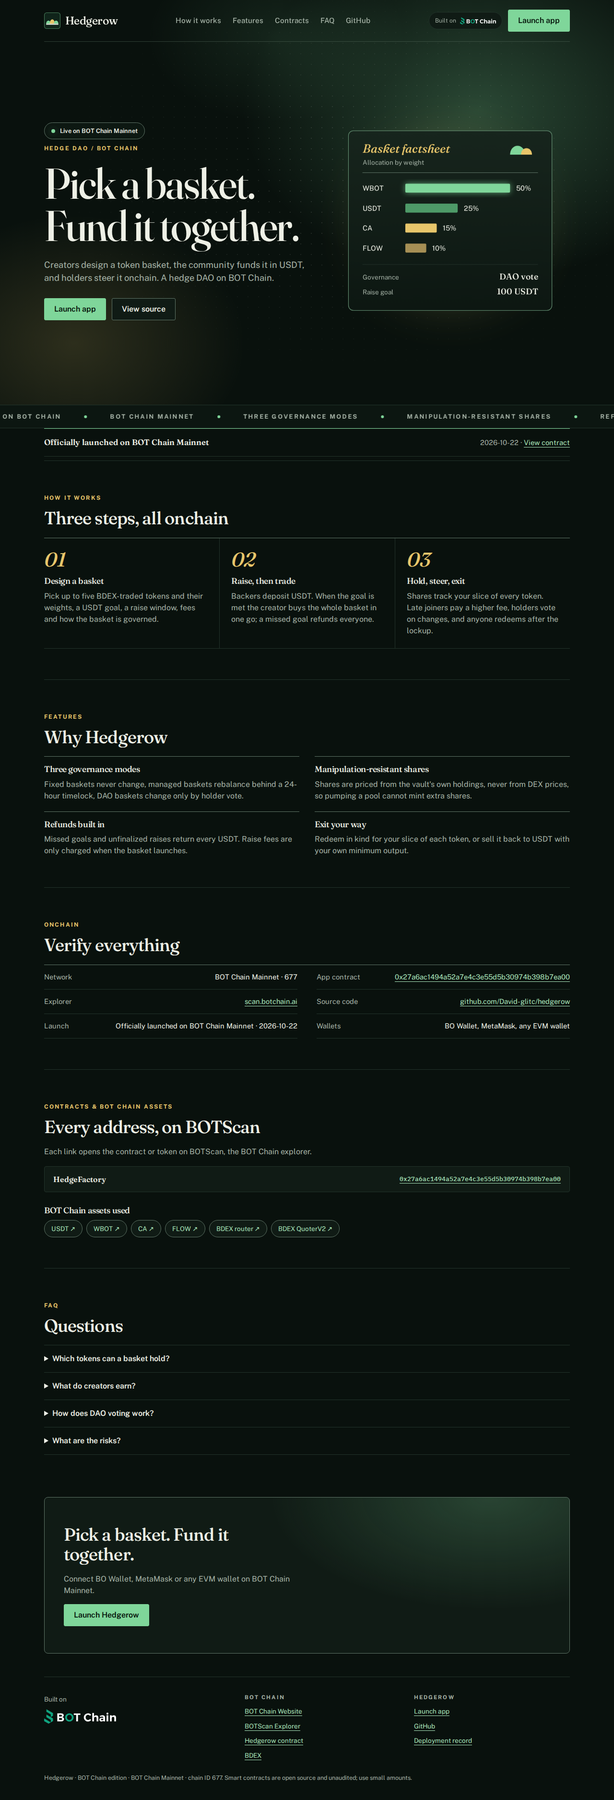
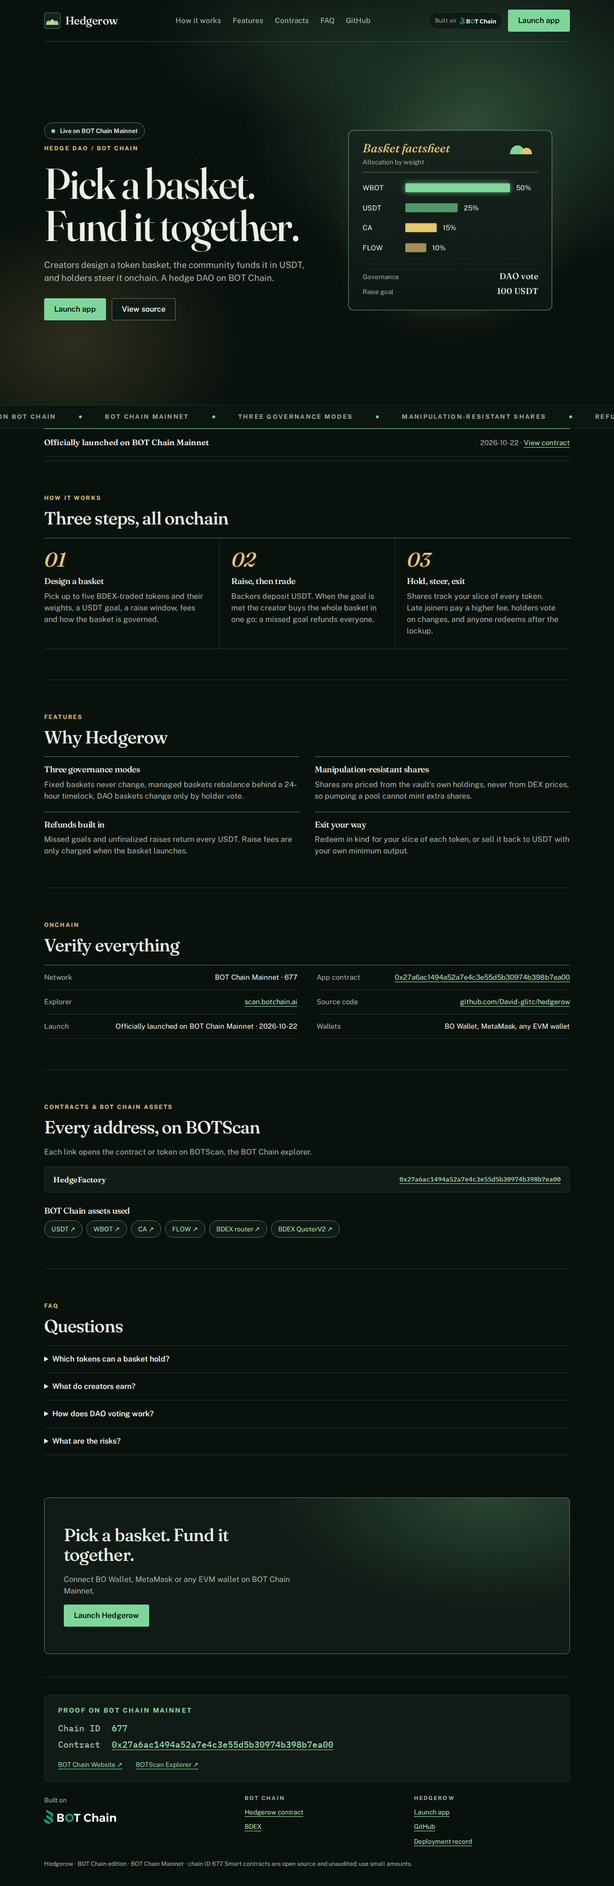
Per-product app layouts, live app-bar figures and Proof on BOT Chain Mainnet footer

diff --git a/web/base.css b/web/base.css
@@ -96,18 +96,42 @@ header{position:relative;z-index:3;display:flex;align-items:center;justify-conte
 .assets a{display:inline-flex;align-items:center;min-height:36px;padding:6px 14px;border:1px solid var(--line-strong);border-radius:var(--radius-pill);background:var(--surface);font-size:.85rem;text-decoration:none;color:var(--link)}
 .assets a:hover{border-color:var(--accent)}
 
-/* App page */
-.app-intro{position:relative;isolation:isolate;padding:52px 0 32px}
-.app-intro:before{content:'';position:absolute;left:50%;width:100vw;transform:translateX(-50%);top:-96px;bottom:-24px;z-index:-1;pointer-events:none;background:var(--hero-bg);opacity:.75;-webkit-mask-image:linear-gradient(#000 55%,transparent);mask-image:linear-gradient(#000 55%,transparent)}
-.app-intro h1{font-size:clamp(2rem,4vw,3rem);margin:12px 0}
-.app-intro p{margin:0}
-.status{margin-bottom:24px;padding:16px 20px;border:var(--border-w) solid var(--line);border-left-width:var(--border-w);border-radius:var(--radius-md);background:var(--surface);color:var(--ink);font-size:.92rem;overflow-wrap:anywhere}
-.status.error{border-color:var(--danger);background:var(--danger-bg)}
-.layout{display:grid;grid-template-columns:minmax(0,360px) minmax(0,1fr);gap:24px;align-items:start}
-.panel{padding:24px;margin-bottom:20px;background:var(--surface);border:var(--border-w) solid var(--line);border-radius:var(--radius-lg);box-shadow:var(--shadow-1)}
+/* App page: an app bar with live figures, then a product-specific workspace (data-layout). */
+.sr-only{position:absolute;width:1px;height:1px;margin:-1px;overflow:hidden;clip:rect(0 0 0 0);white-space:nowrap}
+.app-bar{position:relative;isolation:isolate;display:flex;flex-wrap:wrap;align-items:flex-end;justify-content:space-between;gap:24px 40px;padding:44px 0 28px}
+.app-bar:before{content:'';position:absolute;left:50%;width:100vw;transform:translateX(-50%);top:-96px;bottom:-24px;z-index:-1;pointer-events:none;background:var(--hero-bg);opacity:.75;-webkit-mask-image:linear-gradient(#000 55%,transparent);mask-image:linear-gradient(#000 55%,transparent)}
+.app-title{min-width:0;flex:1 1 380px}
+.app-title h1{font-size:clamp(2.2rem,4.6vw,3.6rem);margin:10px 0;max-width:none}
+.app-title p{margin:0;max-width:56ch}
+.stats{display:flex;flex-wrap:wrap;margin:0;border:var(--border-w) solid var(--line);border-radius:var(--radius-md);background:var(--surface);overflow:hidden}
+.stats>div{padding:12px 20px;min-width:118px}
+.stats>div+div{border-left:1px solid var(--line)}
+.stats dt{font-family:var(--font-label);font-size:.68rem;font-weight:700;letter-spacing:var(--label-tracking);text-transform:uppercase;color:var(--ink-2)}
+.stats dd{margin:4px 0 0;font-family:var(--font-mono);font-size:1.15rem;font-weight:700;font-variant-numeric:tabular-nums;color:var(--ink);white-space:nowrap}
+.skeleton{display:grid;gap:12px}
+.skeleton span,.skeleton-stat{display:block;height:72px;border-radius:var(--radius-md);background:linear-gradient(90deg,var(--surface-2) 25%,var(--surface) 50%,var(--surface-2) 75%);background-size:200% 100%;animation:shimmer 1.4s linear infinite}
+.skeleton-stat{width:118px;height:64px;border-radius:0}
+@keyframes shimmer{to{background-position:-200% 0}}
+.status{display:flex;align-items:center;gap:10px;margin-bottom:24px;padding:10px 16px;border:1px solid var(--line);border-radius:var(--radius-md);background:var(--surface);color:var(--ink-2);font-size:.86rem;overflow-wrap:anywhere}
+.status:before{content:'';flex:none;width:8px;height:8px;border-radius:50%;background:var(--live)}
+.status.error{border-color:var(--danger);background:var(--danger-bg);color:var(--ink)}
+.status.error:before{background:var(--danger)}
+.workspace{display:grid;gap:24px;align-items:start}
+.stage,.panel{min-width:0;padding:24px;background:var(--surface);border:var(--border-w) solid var(--line);border-radius:var(--radius-lg);box-shadow:var(--shadow-1)}
+.panel{margin-bottom:20px}
+.side{min-width:0}
+.panel>h2,.stage h2{font-size:clamp(1.4rem,2.4vw,1.9rem)}
 .panel p:first-of-type{margin-top:0}
+.workspace:is([data-layout=console],[data-layout=desk],[data-layout=wall]) .side{order:-1}
+@media(min-width:861px){
+ .workspace:is([data-layout=console],[data-layout=desk]){grid-template-columns:minmax(0,430px) minmax(0,1fr)}
+ .workspace:is([data-layout=board],[data-layout=sheet],[data-layout=calendar]){grid-template-columns:minmax(0,1fr) minmax(0,370px)}
+ .workspace:is([data-layout=board],[data-layout=sheet],[data-layout=calendar]) .side{order:1}
+ .workspace[data-layout=board] .side{position:sticky;top:20px}
+}
 .section-head{display:flex;justify-content:space-between;align-items:center;gap:20px;margin-bottom:18px}
-.section-head h2{margin:0}
+.section-head h2,.section-head h3{margin:0}
+button.quiet{min-height:38px;padding:6px 14px;font-size:.85rem;box-shadow:none}
 label{display:block;margin:16px 0 6px;font-size:.82rem;font-weight:600;color:var(--ink)}
 input,textarea,select{display:block;width:100%;min-width:0;min-height:44px;padding:10px 12px;background:var(--input-bg);color:var(--ink);border:var(--border-w) solid var(--line-strong);border-radius:var(--radius-sm)}
 input:hover,textarea:hover,select:hover{border-color:var(--ink-2)}
@@ -116,9 +140,10 @@ form button[type=submit]{width:100%;margin-top:20px}
 fieldset{min-width:0}
 details{padding:16px 0;border-top:1px solid var(--line)}
 summary{cursor:pointer;font-weight:600;color:var(--ink)}
-.rules{margin-top:20px;font-size:.88rem}
+.rules{padding:16px 20px;border:1px solid var(--line);border-radius:var(--radius-md);font-size:.88rem;background:var(--surface)}
 .rules li{margin:8px 0;color:var(--ink-2)}
-.record{font-size:.88rem;overflow-wrap:anywhere}
+.hint{margin:8px 0 0;font-size:.8rem;color:var(--ink-2)}
+.hint.error,.tiny.error{color:var(--danger-text)}
 .row{display:flex;justify-content:space-between;gap:16px;padding:9px 0;font-size:.92rem}
 .row span{color:var(--ink-2)}
 .amount{font-family:var(--font-display);font-size:1.8rem;font-weight:var(--display-weight);font-variant-numeric:tabular-nums;color:var(--ink)}
@@ -130,21 +155,105 @@ summary{cursor:pointer;font-weight:600;color:var(--ink)}
 .actions{display:flex;flex-wrap:wrap;gap:8px;margin-top:16px}
 .actions button{min-height:40px;padding:8px 14px;font-size:.85rem}
 .badge{font-family:var(--font-label);font-size:.72rem;font-weight:700;letter-spacing:var(--label-tracking);text-transform:uppercase;padding:5px 9px;border:1px solid var(--line-strong);border-radius:var(--radius-sm);color:var(--ink);background:var(--surface-2);white-space:nowrap}
+.badge.live{border-color:var(--accent);color:var(--accent-text)}
 .empty{padding:36px 8px;text-align:center;color:var(--ink-2)}
 .tiny{font-size:.8rem;color:var(--ink-2);overflow-wrap:anywhere}
-.tiny.error{color:var(--danger-text)}
+.mono{font-family:var(--font-mono);font-variant-numeric:tabular-nums}
+.sub{margin:22px 0 10px;font-family:var(--font-label);font-size:.72rem;font-weight:700;letter-spacing:var(--label-tracking);text-transform:uppercase;color:var(--ink-2)}
+/* Chips: quick amounts and slippage presets. */
+.chips{display:flex;flex-wrap:wrap;gap:8px;align-items:center;margin-top:10px}
+.chips button{min-height:36px;padding:6px 12px;font-size:.82rem;box-shadow:none}
+.chips button[aria-pressed=true]{border-color:var(--accent);color:var(--accent-text);background:var(--surface-2)}
+.chips input{width:84px;min-height:36px;padding:6px 10px}
+/* Swap ticket (Switchyard). */
+.swap-leg{padding:16px;background:var(--input-bg);border:var(--border-w) solid var(--line-strong);border-radius:var(--radius-md)}
+.swap-leg:focus-within{border-color:var(--accent)}
+.swap-leg>label,.leg-label{display:block;margin:0 0 6px;font-size:.78rem;font-weight:600;color:var(--ink-2)}
+.leg-row{display:flex;gap:10px;align-items:center}
+.leg-row input,.leg-row output{flex:1;min-width:0;min-height:48px;padding:0;border:0;background:none;font-family:var(--font-mono);font-size:clamp(1.4rem,3vw,1.9rem);font-weight:700;font-variant-numeric:tabular-nums}
+.leg-row output{display:flex;align-items:center;overflow:hidden;text-overflow:ellipsis;color:var(--ink)}
+.leg-row select{flex:none;width:auto;min-width:108px;font-weight:700;background:var(--surface-2)}
+.leg-meta{display:flex;justify-content:space-between;gap:12px;margin:6px 0 0;font-size:.78rem;color:var(--ink-2)}
+.leg-meta button{min-height:28px;padding:2px 10px;font-size:.75rem;box-shadow:none}
+.flip{display:flex;position:relative;z-index:1;width:44px;height:44px;margin:-8px auto;padding:0;border-radius:var(--radius-pill);background:var(--surface-2)}
+.flip svg{width:20px;height:20px}
+.quote{margin:16px 0 0}
+.quote>div{display:flex;justify-content:space-between;gap:12px;padding:8px 0;border-bottom:1px dashed var(--line);font-size:.85rem}
+.quote dt{color:var(--ink-2)}
+.quote dd{margin:0;font-family:var(--font-mono);color:var(--ink);text-align:right}
+/* Data tables: departure board, offer ledger. */
+.table-wrap{overflow-x:auto}
+table.board{width:100%;border-collapse:collapse;font-size:.88rem}
+.board th{padding:10px 12px;text-align:left;font-family:var(--font-label);font-size:.68rem;font-weight:700;letter-spacing:var(--label-tracking);text-transform:uppercase;color:var(--ink-2);border-bottom:var(--border-w) solid var(--line-strong)}
+.board td{padding:12px;border-bottom:1px solid var(--line);vertical-align:middle;font-variant-numeric:tabular-nums}
+.board .num{text-align:right;font-family:var(--font-mono)}
+.board tr:last-child td{border-bottom:0}
+@media(max-width:640px){.board.stack thead{display:none}.board.stack tr{display:grid;grid-template-columns:1fr auto;gap:4px 12px;padding:12px 0;border-bottom:1px solid var(--line)}.board.stack td{padding:0;border:0;text-align:left}.board.stack td.num{text-align:right}}
+/* Game board (Lodestake). */
+.hud{display:grid;grid-template-columns:repeat(3,minmax(0,1fr));gap:12px;margin-bottom:20px}
+.hud>div{padding:12px 14px;background:var(--surface-2);border-radius:var(--radius-md)}
+.hud span{display:block;font-family:var(--font-label);font-size:.68rem;font-weight:700;letter-spacing:var(--label-tracking);text-transform:uppercase;color:var(--ink-2)}
+.hud strong{display:block;margin-top:2px;font-family:var(--font-mono);font-size:1.3rem;font-variant-numeric:tabular-nums;color:var(--ink);white-space:nowrap;overflow:hidden;text-overflow:ellipsis}
+.hud .closed strong{color:var(--danger-text)}
+.mine{display:grid;grid-template-columns:repeat(3,minmax(0,1fr));gap:14px;max-width:560px;margin:0 auto}
+.mine button{aspect-ratio:1;flex-direction:column;align-items:stretch;justify-content:space-between;gap:6px;padding:14px;background:var(--tile);border-radius:var(--radius-md);text-align:left}
+.mine .n{font-family:var(--font-display);font-size:clamp(1.3rem,3vw,1.9rem);line-height:1}
+.mine .stake{font-family:var(--font-mono);font-size:.76rem;color:var(--ink-2);overflow-wrap:anywhere}
+.mine .share{display:block;height:6px;border-radius:var(--radius-pill);background:var(--bg);overflow:hidden}
+.mine .share i{display:block;height:100%;background:var(--accent)}
+.mine button[aria-pressed=true]{background:var(--accent);border-color:var(--accent);color:var(--accent-ink)}
+.mine button[aria-pressed=true] .stake{color:var(--accent-ink)}
+.mine button[aria-pressed=true] .share{background:var(--accent-ink)}
+.mine button[aria-pressed=true] .share i{background:var(--accent-hover)}
+.rounds{display:flex;gap:10px;overflow-x:auto;padding-bottom:6px}
+.round-chip{flex:none;min-width:128px;padding:10px 12px;border:var(--border-w) solid var(--line);border-radius:var(--radius-md);background:var(--surface-2);font-size:.8rem;color:var(--ink-2)}
+.round-chip strong{display:block;color:var(--ink);font-size:.9rem}
+.round-chip button{margin-top:8px;min-height:36px;padding:6px 10px;font-size:.78rem;width:100%}
+.picked{display:flex;align-items:baseline;justify-content:space-between;gap:12px;padding:14px 16px;margin:14px 0 4px;background:var(--surface-2);border-radius:var(--radius-md)}
+.picked span{font-size:.8rem;color:var(--ink-2)}
+.picked strong{font-family:var(--font-display);font-size:1.7rem;font-weight:var(--display-weight);color:var(--accent-text)}
+/* Basket factsheets (Hedgerow). */
+.sheets{display:grid;gap:18px}
+.sheet{padding:22px;background:var(--surface-2);border:1px solid var(--line);border-radius:var(--radius-md)}
+.sheet-head{display:flex;justify-content:space-between;align-items:flex-start;gap:12px 16px;flex-wrap:wrap}
+.sheet-head h3{margin:0;font-size:clamp(1.3rem,2.4vw,1.7rem);overflow-wrap:anywhere}
+.sheet-head .tiny{display:block;margin-top:4px}
+.sheet .badges{display:flex;gap:6px;flex-wrap:wrap}
+.alloc{display:flex;gap:2px;height:14px;margin:18px 0 10px;border-radius:var(--radius-pill);overflow:hidden}
+.alloc i{display:block;min-width:4px}
+.alloc i:nth-child(1),.legend li:nth-child(1):before{background:var(--accent)}
+.alloc i:nth-child(2),.legend li:nth-child(2):before{background:var(--focus)}
+.alloc i:nth-child(3),.legend li:nth-child(3):before{background:var(--link)}
+.alloc i:nth-child(4),.legend li:nth-child(4):before{background:var(--ink-2)}
+.alloc i:nth-child(5),.legend li:nth-child(5):before{background:var(--line-strong)}
+.legend{display:flex;flex-wrap:wrap;gap:6px 18px;list-style:none;padding:0;margin:0 0 6px;font-size:.84rem}
+.legend li{display:flex;align-items:center;gap:8px;color:var(--ink-2)}
+.legend li:before{content:'';width:10px;height:10px;border-radius:2px}
+.legend b{color:var(--ink);font-family:var(--font-mono);font-weight:600}
+.figs{display:grid;grid-template-columns:repeat(auto-fit,minmax(132px,1fr));gap:1px;margin:16px 0;background:var(--line);border:1px solid var(--line);border-radius:var(--radius-sm);overflow:hidden}
+.figs>div{padding:10px 12px;background:var(--surface)}
+.figs dt{font-family:var(--font-label);font-size:.66rem;font-weight:700;letter-spacing:var(--label-tracking);text-transform:uppercase;color:var(--ink-2)}
+.figs dd{margin:3px 0 0;font-family:var(--font-mono);font-size:.95rem;font-weight:600;color:var(--ink);overflow-wrap:anywhere}
+.meter{position:relative;height:8px;margin:12px 0 6px;border-radius:var(--radius-pill);background:var(--bg)}
+.meter i{display:block;height:100%;border-radius:inherit;background:var(--accent)}
+.you{margin:12px 0 0;padding:10px 12px;border-left:3px solid var(--accent);background:var(--surface);font-size:.85rem;color:var(--ink)}
+.basket{display:flex;gap:3px;margin:12px 0 14px;border-radius:var(--radius-sm);overflow:hidden}
+.basket span{min-width:0;padding:7px 8px;background:var(--surface-2);border-top:3px solid var(--accent);font-size:.75rem;white-space:nowrap;overflow:hidden;text-overflow:ellipsis}
+.weights{margin:18px 0 0;padding:4px 14px 12px;border:1px solid var(--line-strong);border-radius:var(--radius-md)}
+.weights legend{padding:0 6px;font-size:.8rem;font-weight:600}
+.weight-grid{display:grid;grid-template-columns:repeat(2,minmax(0,1fr));gap:0 12px}
+.weight-grid label{font-size:.76rem}
+.two{display:grid;grid-template-columns:repeat(2,minmax(0,1fr));gap:0 12px}
+.holdings{margin:6px 0 10px}
 .grid{display:grid;grid-template-columns:repeat(3,1fr);gap:10px;margin:20px 0}
 .grid button{aspect-ratio:1;flex-direction:column;gap:6px;padding:8px;background:var(--tile);border-radius:var(--radius-md)}
 .grid button[aria-pressed=true]{background:var(--accent);color:var(--accent-ink);border-color:var(--accent)}
 .grid button[aria-pressed=true] small{color:var(--accent-ink)}
 .grid small{font-size:.68rem;color:var(--ink-2)}
-.basket{display:flex;gap:3px;margin:12px 0 14px;border-radius:var(--radius-sm);overflow:hidden}
-.basket span{min-width:0;padding:7px 8px;background:var(--surface-2);border-top:3px solid var(--accent);font-size:.75rem;white-space:nowrap;overflow:hidden;text-overflow:ellipsis}
-.weights{margin:18px 0 0;padding:4px 14px 12px;border:1px solid var(--line-strong);border-radius:var(--radius-md)}
-.weights legend{padding:0 6px;font-size:.8rem;font-weight:600}
-.holdings{margin:6px 0 10px}
-.contracts-panel h2{font-size:1.1rem;margin-bottom:6px}
-.contracts-panel .contract{padding:10px 12px}
+.contracts-panel{margin-top:48px;padding-top:32px;border-top:var(--border-w) solid var(--line)}
+.contracts-panel h2{font-size:1.2rem;margin-bottom:6px}
+.contracts-panel .contracts{grid-template-columns:repeat(auto-fit,minmax(min(100%,420px),1fr))}
+.contracts-panel .contract{padding:10px 14px}
 a.asset{text-decoration-thickness:1px}
 .wallet-list{display:flex;flex-direction:column;gap:8px;margin:16px 0}
 .wallet-list button{justify-content:flex-start;text-align:left}
@@ -152,17 +261,28 @@ dialog{width:min(92vw,400px);padding:24px;background:var(--surface);color:var(--
 dialog::backdrop{background:var(--scrim)}
 dialog h2{margin-bottom:8px}
 dialog form>button{width:100%}
+@media(max-width:860px){.stats{width:100%}.stats>div{flex:1 1 33%}}
+@media(max-width:480px){.hud{grid-template-columns:repeat(2,minmax(0,1fr))}.hud>div:first-child{grid-column:1/-1}.mine{gap:8px}.mine button{padding:10px}.weight-grid,.two{grid-template-columns:1fr}.stats>div{padding:10px 14px;min-width:0}}
 
 /* Footer */
+.proof{grid-column:1/-1;padding:24px 28px;border:var(--border-w) solid var(--line);border-radius:var(--radius-lg);background:var(--surface)}
+.site-footer .proof h2{margin:0 0 16px;font-size:.85rem;color:var(--accent-text)}
+.proof dl{display:grid;grid-template-columns:auto minmax(0,1fr);gap:8px 24px;margin:0 0 18px;font-family:var(--font-mono);font-size:clamp(.9rem,1.6vw,1.1rem)}
+.proof dl div{display:contents}
+.proof dt{color:var(--ink-2)}
+.proof dd{margin:0;color:var(--accent-text);overflow-wrap:anywhere}
+.proof dd a{color:inherit}
+.proof-links{display:flex;flex-wrap:wrap;gap:12px 28px;margin:0}
+.proof-links a{color:var(--accent-text)}
 .site-footer{display:grid;grid-template-columns:1.2fr 1fr 1fr;gap:28px;margin-top:48px;padding:36px 0;border-top:var(--border-w) solid var(--line);font-size:.85rem;color:var(--ink-2)}
 .site-footer h2{margin:0 0 12px;font-family:var(--font-label);font-size:.72rem;font-weight:700;letter-spacing:var(--label-tracking);text-transform:uppercase;color:var(--ink-2)}
 .site-footer nav{display:flex;flex-direction:column;gap:10px}
 .built{display:inline-flex;flex-direction:column;gap:10px;color:var(--ink-2);text-decoration:none}
 .built img{width:150px;height:auto}
 .legal{grid-column:1/-1;margin:0;font-size:.78rem}
-.hidden{display:none!important}
+.hidden,[hidden]{display:none!important}
 
-@media(max-width:860px){.site-nav{display:none}.steps,.features,.facts{grid-template-columns:1fr}.site-footer{grid-template-columns:1fr}.hero{grid-template-columns:1fr;grid-template-areas:"copy" "art";gap:32px;min-height:0;padding:44px 0 48px}.hero-art svg{max-width:360px}.layout{grid-template-columns:1fr}}
+@media(max-width:860px){.site-nav{display:none}.steps,.features,.facts{grid-template-columns:1fr}.site-footer{grid-template-columns:1fr}.hero{grid-template-columns:1fr;grid-template-areas:"copy" "art";gap:32px;min-height:0;padding:44px 0 48px}.hero-art svg{max-width:360px}}
 @media(max-width:760px){.shell{padding:0 18px}.band{padding:44px 0}.panel{padding:20px}.cta-band{padding:36px 22px}#add-chain{display:none}.chain-badge.compact{display:none}}
 @media(max-width:480px){header{gap:10px}.header-actions{gap:6px}.chain-badge span{display:none}.chain-badge{padding:6px 8px}.chain-badge img{height:12px}.header-actions a.button{min-height:40px;padding:8px 12px;font-size:.85rem}.brand{font-size:1.15rem}.brand .logo{width:28px;height:28px}h1{font-size:2.6rem}}
 @media(prefers-reduced-motion:reduce){*,*:before,*:after{transition:none!important;animation:none!important;scroll-behavior:auto!important}}

diff --git a/web/products/hedgerow.js b/web/products/hedgerow.js
@@ -1,5 +1,5 @@
 import {parseAbi,encodePacked} from 'viem';
-import {$,config,state,client,esc,fmt,link,short,button,field,form,details,amount,read,tx,approve,mine,wallet,asset,start} from '../core.js';
+import {$,config,state,client,esc,fmt,link,short,button,field,form,details,amount,read,tx,approve,mine,wallet,connect,asset,start} from '../core.js';
 const ZERO='0x0000000000000000000000000000000000000000',USDT=config.infrastructure.USDT;
 const quoterAbi=parseAbi(['function quoteExactInput(bytes path,uint256 amountIn) returns(uint256 amountOut,uint160[],uint32[],uint256)']);
 const symAbi=parseAbi(['function symbol() view returns(string)','function decimals() view returns(uint8)']);
@@ -26,18 +26,18 @@ const vaultTx=(addr,fn,args=[])=>tx('HedgeVault',fn,args,0n,addr);
 const vread=(addr,fn,args=[])=>read('HedgeVault',fn,args,addr);
 // 50/15/10 across the first three non-cash tokens and 25% cash, whatever this network lists.
 function defaultWeights(){const w={},split=[50,15,10];let n=0;for(const t of config.tokens)w[t.symbol]=t.cash?25:(split[n++]??0);return w;}
-function weightFields(prefix,defaults={}){return '<fieldset class="weights"><legend>Basket weights (%) — must total 100</legend>'+config.tokens.map(t=>field(`${prefix}-w-${t.symbol}`,`${t.symbol} · ${t.name}`,String(defaults[t.symbol]??0),'text','inputmode="decimal"')).join('')+`<p class="tiny" id="${prefix}-total" aria-live="polite"></p></fieldset>`;}
+function weightFields(prefix,defaults={}){return '<fieldset class="weights"><legend>Basket weights (%) · must total 100</legend><div class="weight-grid">'+config.tokens.map(t=>`<div>${field(`${prefix}-w-${t.symbol}`,`${t.symbol}${t.cash?' · cash':''}`,String(defaults[t.symbol]??0),'text','inputmode="decimal"')}</div>`).join('')+`</div><div class="alloc" id="${prefix}-bar" aria-hidden="true"></div><p class="tiny" id="${prefix}-total" aria-live="polite"></p></fieldset>`;}
 function basketFrom(f,prefix){const comps=[];let total=0;
  for(const t of config.tokens){const raw=f[`${prefix}-w-${t.symbol}`]||'0';if(!/^\d+(\.\d{1,2})?$/.test(raw))throw Error(`Use a number for the ${t.symbol} weight.`);const bps=Math.round(Number(raw)*100);if(!bps)continue;if(bps<500)throw Error(`${t.symbol}: each token needs at least 5%.`);total+=bps;comps.push({token:t.address,weightBps:bps,mid:t.mid||ZERO,fee1:t.fee1||0,fee2:t.fee2||0});}
  if(!comps.length||comps.length>5)throw Error('Pick between one and five tokens.');if(total!==10000)throw Error(`Weights total ${total/100}%. They must total exactly 100%.`);return comps;}
-function watchTotal(formId,prefix){const f=document.querySelector(`[data-form="${formId}"]`);if(!f)return;const upd=()=>{let t=0;for(const x of config.tokens)t+=Number(f.querySelector(`[name="${prefix}-w-${x.symbol}"]`)?.value||0);const el=$(`${prefix}-total`);if(el){el.textContent=`Total: ${t}%`;el.classList.toggle('error',Math.abs(t-100)>1e-9);}};f.addEventListener('input',upd);upd();}
+function watchTotal(formId,prefix){const f=document.querySelector(`[data-form="${formId}"]`);if(!f)return;const upd=()=>{let t=0;for(const x of config.tokens)t+=Number(f.querySelector(`[name="${prefix}-w-${x.symbol}"]`)?.value||0);const el=$(`${prefix}-total`);if(el){el.textContent=Math.abs(t-100)>1e-9?`Total ${t}%: adjust to exactly 100%.`:'Total 100%.';el.classList.toggle('error',Math.abs(t-100)>1e-9);}
+  const bar=$(`${prefix}-bar`);if(bar)bar.innerHTML=config.tokens.map(x=>Number(f.querySelector(`[name="${prefix}-w-${x.symbol}"]`)?.value||0)).filter(v=>v>0).map(v=>`<i style="flex:${v}"></i>`).join('');};f.addEventListener('input',upd);upd();}
 
 function controls(){
  $('list-title').textContent='Baskets';
- $('controls').innerHTML='<h2>Create a basket</h2>'+form('create',field('name','Basket name','BOT Chain Core','text','maxlength="48"')+field('symbol','Share symbol','CORE','text','maxlength="12"')+weightFields('c',defaultWeights())
+ $('controls').innerHTML='<h2>Design a basket</h2><p>Pick up to five tokens and weights. Backers fund it in USDT; if the goal is missed, everyone refunds.</p>'+form('create',`<div class="two"><div>${field('name','Basket name','BOT Chain Core','text','maxlength="48"')}</div><div>${field('symbol','Share symbol','CORE','text','maxlength="12"')}</div></div>`+weightFields('c',defaultWeights())
   +`<label for="mode">Governance</label><select id="mode" name="mode"><option value="2">DAO — holders vote on changes</option><option value="1">Managed — you rebalance after a 24h timelock</option><option value="0">Fixed — the basket never changes</option></select>`
-  +field('goal','Raise goal (USDT)','100','text','inputmode="decimal"')+field('days','Raise window (days, 1–30)','7','number','min="1" max="30"')+field('lockup','Lockup after launch (days, 0–90)','7','number','min="0" max="90"')
-  +field('raise-fee','Raise fee (%, max 2)','0.5','text','inputmode="decimal"')+field('late-fee','Late-entry fee (%, max 5, ≥ raise fee)','2','text','inputmode="decimal"'),'Create basket',async f=>{
+  +field('goal','Raise goal (USDT)','100','text','inputmode="decimal"')+`<div class="two"><div>${field('days','Raise window (days)','7','number','min="1" max="30"')}</div><div>${field('lockup','Lockup (days)','7','number','min="0" max="90"')}</div></div><div class="two"><div>${field('raise-fee','Raise fee (%, ≤ 2)','0.5','text','inputmode="decimal"')}</div><div>${field('late-fee','Late fee (%, ≤ 5)','2','text','inputmode="decimal"')}</div></div>`,'Create basket',async f=>{
    const comps=basketFrom(f,'c'),bps=v=>{if(!/^\d+(\.\d{1,2})?$/.test(v))throw Error('Fees must be percentages.');return Math.round(Number(v)*100);};
    const days=Number(f.days),lock=Number(f.lockup);if(!(days>=1&&days<=30))throw Error('Raise window must be 1–30 days.');if(!(lock>=0&&lock<=90))throw Error('Lockup must be 0–90 days.');
    const raiseFee=bps(f['raise-fee']),lateFee=bps(f['late-fee']);if(raiseFee>200||lateFee>500||lateFee<raiseFee)throw Error('Raise fee ≤ 2%, late fee ≤ 5% and at least the raise fee.');
@@ -52,15 +52,20 @@ async function card(id){
  const [name,symbol,mode,phase,goal,raiseEnd,raised,comps,holdings,supply,creator,lockupEnd,raiseFee,lateFee,refundable,canRedeem,count]=await Promise.all(['name','symbol','mode','phase','goal','raiseEnd','raised','components','holdings','effectiveSupply','creator','lockupEnd','raiseFeeBps','lateFeeBps','refundable','canRedeem','proposalCount'].map(g));
  const metas=await Promise.all(comps.map(c=>tokenMeta(c.token)));const own=mine(creator),now=chainNow,f=`v${id}`;
  const shownPhase=refundable?2:phase;
- let html=`<article class="item"><div class="section-head"><h3>${esc(name)} <span class="tiny">${esc(symbol)}</span></h3><span class="badge">${PHASES[shownPhase]} · ${MODES[mode]}</span></div>`;
- html+=`<div class="basket">${comps.map((c,n)=>`<span style="flex:${c.weightBps}">${asset(metas[n].symbol,c.token)} ${pct(c.weightBps)}</span>`).join('')}</div>`;
- html+=phase===0?`<div class="amount">${trim(fmt(raised,6))} / ${trim(fmt(goal,6))} ${asset('USDT')}</div><p class="tiny">Raise ends ${new Date(Number(raiseEnd)*1000).toLocaleString()} · raise fee ${pct(raiseFee)} · late fee ${pct(lateFee)} · by ${link(creator)} · ${link(addr,'vault')}</p>`
-  :`<p class="tiny">${trim(fmt(supply,6))} shares · late-entry fee ${pct(lateFee)} · ${Number(lockupEnd)>now?`lockup until ${new Date(Number(lockupEnd)*1000).toLocaleString()}`:'redeemable'} · by ${link(creator)} · ${link(addr,'vault')}</p>`;
- if(phase===1){const hm=await Promise.all(holdings[0].map(tokenMeta));html+='<div class="holdings">'+holdings[0].map((t,n)=>`<div class="row"><span>${asset(hm[n].symbol,t)}</span><strong>${trim(fmt(holdings[1][n],hm[n].decimals))}</strong></div>`).join('')+'</div>';}
+ const pctRaised=goal>0n?Math.min(100,Number(raised*1000n/goal)/10):0,when=t=>new Date(Number(t)*1000).toLocaleDateString(undefined,{day:'numeric',month:'short',hour:'2-digit',minute:'2-digit'});
+ tally.count++;if(shownPhase===0)tally.raising++;if(shownPhase===1)tally.live++;tally.raised+=raised;
+ let html=`<article class="sheet"><div class="sheet-head"><div><h3>${esc(name)}</h3><span class="tiny">${esc(symbol)} · by ${link(creator)} · ${link(addr,'vault')}</span></div><div class="badges"><span class="badge${shownPhase===1?' live':''}">${PHASES[shownPhase]}</span><span class="badge">${MODES[mode]}</span></div></div>`;
+ html+=`<div class="alloc" aria-hidden="true">${comps.map(c=>`<i style="flex:${c.weightBps}"></i>`).join('')}</div><ul class="legend" aria-label="Allocation">${comps.map((c,n)=>`<li>${asset(metas[n].symbol,c.token)} <b>${pct(c.weightBps)}</b></li>`).join('')}</ul>`;
+ const figs=phase===0?[['Raised',`${trim(fmt(raised,6))} USDT`],['Goal',`${trim(fmt(goal,6))} USDT`],['Raise ends',when(raiseEnd)],['Fees',`${pct(raiseFee)} raise · ${pct(lateFee)} late`]]
+  :[['Shares',trim(fmt(supply,6))],['Late-entry fee',pct(lateFee)],['Redeem',Number(lockupEnd)>now?`from ${when(lockupEnd)}`:'Open now'],['Raised',`${trim(fmt(raised,6))} USDT`]];
+ html+=`<dl class="figs">${figs.map(([k,v])=>`<div><dt>${k}</dt><dd>${v}</dd></div>`).join('')}</dl>`;
+ if(phase===0)html+=`<div class="meter" role="progressbar" aria-label="Raise progress" aria-valuemin="0" aria-valuemax="100" aria-valuenow="${pctRaised}"><i style="width:${pctRaised}%"></i></div><p class="tiny">${pctRaised}% of goal${refundable?' · goal missed: backers can refund':''}</p>`;
+ if(phase===1){const hm=await Promise.all(holdings[0].map(tokenMeta));html+='<h4 class="sub">Holdings</h4><div class="holdings">'+holdings[0].map((t,n)=>`<div class="row"><span>${asset(hm[n].symbol,t)}</span><strong class="mono">${trim(fmt(holdings[1][n],hm[n].decimals))}</strong></div>`).join('')+'</div>';}
  const slipField=k=>field(`${f}-${k}-slip`,'Max slippage (%)','2','text','inputmode="decimal"');
+ if(!state.account&&(phase===1||(phase===0&&!refundable&&now<Number(raiseEnd))))html+=`<div class="actions">${button(phase===0?'Connect to back this basket':'Connect to join this basket',connect,true)}</div>`;
  if(state.account){
   const [dep,claim,shares,votes]=await Promise.all([vread(addr,'deposits',[state.account]),vread(addr,'claimable',[state.account]),vread(addr,'balanceOf',[state.account]),vread(addr,'getVotes',[state.account])]);
-  if(dep>0n||shares>0n)html+=`<p class="tiny">You: ${dep>0n?`${trim(fmt(dep,6))} USDT deposited`:''}${dep>0n&&shares>0n?' · ':''}${shares>0n?`${trim(fmt(shares,6))} shares (${supply>0n?(Number(shares*10000n/supply)/100).toFixed(2):0}%) · ${trim(fmt(votes,6))} votes`:''}</p>`;
+  if(dep>0n||shares>0n)html+=`<p class="you">You: ${dep>0n?`${trim(fmt(dep,6))} USDT deposited`:''}${dep>0n&&shares>0n?' · ':''}${shares>0n?`${trim(fmt(shares,6))} shares (${supply>0n?(Number(shares*10000n/supply)/100).toFixed(2):0}%) · ${trim(fmt(votes,6))} votes`:''}</p>`;
   const acts=[];
   if(phase===0&&!refundable&&now<Number(raiseEnd))html+=details('Back this basket',form(`${f}-dep`,field(`${f}-dep-amt`,'Deposit (USDT)','10','text','inputmode="decimal"'),'Approve & deposit',async x=>{const n=amount(x[`${f}-dep-amt`],6);await approve(USDT,addr,n);await vaultTx(addr,'deposit',[n]);}));
   if(refundable&&dep>0n)acts.push(button(`Refund ${trim(fmt(dep,6))} USDT`,()=>vaultTx(addr,'refund'),true));
@@ -76,7 +81,7 @@ async function card(id){
   if(phase===1&&mode>0&&(own||(mode===2&&votes*100n>=supply))&&(mode===2||Number(lockupEnd)<=now))html+=details(mode===2?'Propose a new basket':'Schedule a rebalance',form(`${f}-prop`,weightFields(`${f}p`),mode===2?'Submit proposal':'Schedule (24h timelock)',async x=>vaultTx(addr,'propose',[basketFrom(x,`${f}p`)])));
   if(acts.length)html+=`<div class="actions">${acts.join('')}</div>`;
  }
- if(count>0n){html+='<h3>Proposals</h3>';
+ if(count>0n){html+='<h4 class="sub">Proposals</h4>';
   for(let p=Number(count)-1;p>=Math.max(0,Number(count)-5);p--){const [[pr,next],ok,voted]=await Promise.all([vread(addr,'proposal',[BigInt(p)]),vread(addr,'passed',[BigInt(p)]),state.account?vread(addr,'hasVoted',[BigInt(p),state.account]):false]);
    const nm=await Promise.all(next.map(c=>tokenMeta(c.token))),open=now<Number(pr.end);
    html+=`<div class="item"><div class="row"><span>#${p} · ${next.map((c,n)=>`${asset(nm[n].symbol,c.token)} ${pct(c.weightBps)}`).join(' · ')}</span><strong>${pr.executed?'Executed':open?(mode===2?'Voting':'Timelocked'):ok?'Ready':'Closed'}</strong></div>`;
@@ -89,10 +94,13 @@ async function card(id){
  }
  return html+'</article>';
 }
+const tally={count:0,raising:0,live:0,raised:0n};
 async function render(){
- await syncClock();const count=Number(await read('HedgeFactory','vaultCount'));let html='';
- for(let id=count-1;id>=Math.max(0,count-12);id--)html+=await card(id);
+ await syncClock();const count=Number(await read('HedgeFactory','vaultCount'));Object.assign(tally,{count:0,raising:0,live:0,raised:0n});
+ const ids=[];for(let id=count-1;id>=Math.max(0,count-12);id--)ids.push(id);
+ let html=(await Promise.all(ids.map(card))).join('');html=html&&`<div class="sheets">${html}</div>`;
  setTimeout(()=>{for(let id=count-1;id>=Math.max(0,count-12);id--)watchTotal(`v${id}-prop`,`v${id}p`);},0);
  return html||'<p class="empty">No baskets yet. Design the first one.</p>';
 }
-start({controls,render});
+function stats(empty){return [['Baskets',empty?'—':String(tally.count)],['Raising',empty?'—':String(tally.raising)],['Raised',empty?'—':`$${Number(fmt(tally.raised,6)).toLocaleString(undefined,{maximumFractionDigits:2})}`]];}
+start({controls,render,stats});

diff --git a/web/app.html b/web/app.html
@@ -1,1 +1,1 @@
-<!doctype html><html lang="en"><head><meta charset="UTF-8"><meta name="viewport" content="width=device-width,initial-scale=1"><meta name="theme-color" content="__THEME_COLOR__"><title>__NAME__ App · BOT Chain</title><meta name="description" content="__DESCRIPTION__"><link rel="icon" href="/icon.svg" type="image/svg+xml"><link rel="stylesheet" href="/style.css"></head><body><a class="skip" href="#main">Skip to app</a><div class="shell"><header><a class="brand" href="/">__LOGO____NAME__</a><div class="header-actions"><a class="chain-badge compact" href="https://www.botchain.ai/" target="_blank" rel="noopener noreferrer" aria-label="Built on BOT Chain"><span>Built on</span><img src="/__BOTCHAIN_LOGO__" alt="BOT Chain" width="96" height="19"></a><button id="add-chain" type="button">Add BOT Chain</button><button id="connect" type="button" class="primary">Connect wallet</button></div></header><main id="main"><section class="app-intro"><span class="eyebrow">__EYEBROW__ / __NETWORK_UPPER__</span><h1>__NAME__ app</h1><p>__LINE__ <a href="/">How it works</a></p></section><div id="status" class="status" role="status" aria-live="polite">Checking deployment…</div><div id="workspace" class="layout"><aside><div id="controls" class="panel"></div><details class="rules"><summary>How this works</summary><div id="rules"></div></details><div class="panel contracts-panel"><h2>Contracts &amp; assets</h2><div class="contracts">__CONTRACTS__</div><ul class="assets">__ASSETS__</ul><p class="tiny">__NETWORK__ · chain ID __CHAIN_ID__ · __FAUCET__<a href="/deployment.json">deployment record</a></p></div></aside><section class="panel"><div class="section-head"><h2 id="list-title">Activity</h2><button id="refresh" type="button">Refresh</button></div><div id="records" aria-live="polite"><p class="empty">Loading onchain data…</p></div></section></div></main>__FOOTER__</div><dialog id="wallets" aria-labelledby="wallets-title"><form method="dialog"><h2 id="wallets-title">Choose a wallet</h2><p class="tiny">Any EVM wallet works on BOT Chain, including BO Wallet and MetaMask.</p><div id="wallet-list" class="wallet-list"></div><button value="cancel">Cancel</button></form></dialog><script type="module" src="/app.js"></script></body></html>
+<!doctype html><html lang="en"><head><meta charset="UTF-8"><meta name="viewport" content="width=device-width,initial-scale=1"><meta name="theme-color" content="__THEME_COLOR__"><title>__NAME__ App · BOT Chain</title><meta name="description" content="__DESCRIPTION__"><link rel="icon" href="/icon.svg" type="image/svg+xml"><link rel="stylesheet" href="/style.css"></head><body class="app-page"><a class="skip" href="#main">Skip to app</a><div class="shell"><header><a class="brand" href="/">__LOGO____NAME__</a><div class="header-actions"><a class="chain-badge compact" href="https://www.botchain.ai/" target="_blank" rel="noopener noreferrer" aria-label="Built on BOT Chain"><span>Built on</span><img src="/__BOTCHAIN_LOGO__" alt="BOT Chain" width="96" height="19"></a><button id="add-chain" type="button">Add BOT Chain</button><button id="connect" type="button" class="primary">Connect wallet</button></div></header><main id="main"><section class="app-bar"><div class="app-title"><span class="eyebrow">__EYEBROW__ / __NETWORK_UPPER__</span><h1 id="app-title">__APP_TITLE__</h1><p>__APP_LINE__ <a href="/#how">How it works</a></p></div><dl id="stats" class="stats" aria-live="polite"><div class="skeleton-stat"></div><div class="skeleton-stat"></div><div class="skeleton-stat"></div></dl></section><div id="status" class="status" role="status" aria-live="polite">Checking deployment…</div><div id="workspace" class="workspace" data-layout="__APP_LAYOUT__"><section id="stage" class="stage" aria-labelledby="list-title"><div class="section-head"><h2 id="list-title">Activity</h2><button id="refresh" type="button" class="quiet">Refresh</button></div><div id="records" aria-live="polite"><div class="skeleton" aria-hidden="true"><span></span><span></span><span></span></div><p class="sr-only">Loading onchain data…</p></div></section><aside id="side" class="side"><div id="controls" class="panel"></div><details class="rules"><summary>How this works</summary><div id="rules"></div></details></aside></div><section class="contracts-panel" aria-labelledby="contracts-title"><h2 id="contracts-title">Contracts &amp; assets</h2><div class="contracts">__CONTRACTS__</div><ul class="assets">__ASSETS__</ul><p class="tiny">__NETWORK__ · chain ID __CHAIN_ID__ · __FAUCET__<a href="/deployment.json">deployment record</a></p></section></main>__FOOTER__</div><dialog id="wallets" aria-labelledby="wallets-title"><form method="dialog"><h2 id="wallets-title">Choose a wallet</h2><p class="tiny">Any EVM wallet works on BOT Chain, including BO Wallet and MetaMask.</p><div id="wallet-list" class="wallet-list"></div><button value="cancel">Cancel</button></form></dialog><script type="module" src="/app.js"></script></body></html>

diff --git a/web/core.js b/web/core.js
@@ -81,17 +81,19 @@ export const mine=a=>!!state.account&&a?.toLowerCase()===state.account.toLowerCa
 let product;
 async function run(fn){if(busy)return;busy=true;$('workspace').setAttribute('aria-busy','true');try{await fn();await refresh();}catch(e){status(e.shortMessage||e.message||'The request failed. Please retry.',true);}finally{busy=false;$('workspace').removeAttribute('aria-busy');}}
 let renderSeq=0;
+/** Headline figures in the app bar: [[label, html], …]. Values are trusted HTML built by the product script. */
+function stats(list){const el=$('stats');el.hidden=!list;if(list)el.innerHTML=list.map(([k,v])=>`<div><dt>${esc(k)}</dt><dd>${v}</dd></div>`).join('');}
 async function refresh(){
- if(!state.verified){$('records').innerHTML=`<p class="empty">This app is awaiting its ${net.label} contract deployment. Transactions unlock once the deployment is verified.</p>`;return;}
+ if(!state.verified){stats(product.stats?.(true));$('records').innerHTML=`<p class="empty">This app is awaiting its ${net.label} contract deployment. Transactions unlock once the deployment is verified.</p>`;return;}
  // A slower, older render (for example from before the wallet connected) must never overwrite a newer one.
  const seq=++renderSeq;$('records').setAttribute('aria-busy','true');
- try{const html=await product.render();if(seq===renderSeq)$('records').innerHTML=html;}finally{if(seq===renderSeq)$('records').removeAttribute('aria-busy');}
+ try{const html=await product.render();if(seq===renderSeq){$('records').innerHTML=html;stats(product.stats?.());product.after?.();}}finally{if(seq===renderSeq)$('records').removeAttribute('aria-busy');}
 }
 async function boot(){
  if(!config.ready){status(`Deployment pending — ${net.label} transactions are not enabled yet.`);await refresh();return;}
  try{if(await client.getChainId()!==net.id)throw Error('RPC returned an unexpected network.');const code=await client.getCode({address:config.contracts[config.contract]});if(!code||code==='0x')throw Error('The app contract is unavailable.');
   state.verified=true;await product.onVerified?.();status(`Connected to ${net.label}.${net.key==='testnet'?' Test BOT is free from the faucet.':''} Connect your wallet to get started.`);await refresh();}
- catch(e){status(e.shortMessage||e.message,true);$('records').innerHTML='<p class="empty">Could not load onchain data. Use Refresh to retry.</p>';}
+ catch(e){status(e.shortMessage||e.message,true);stats(product.stats?.(true));$('records').innerHTML='<p class="empty">Could not load onchain data. Use Refresh to retry.</p>';}
 }
 export function start(p){
  product=p;
